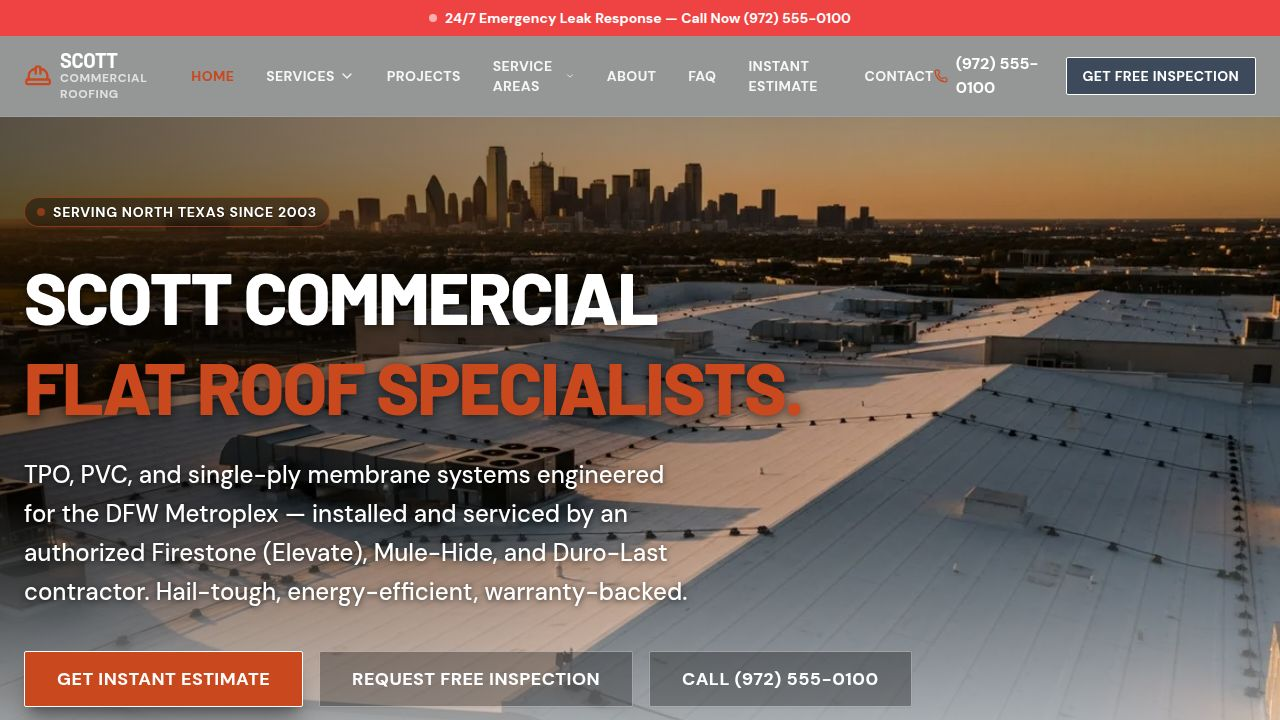
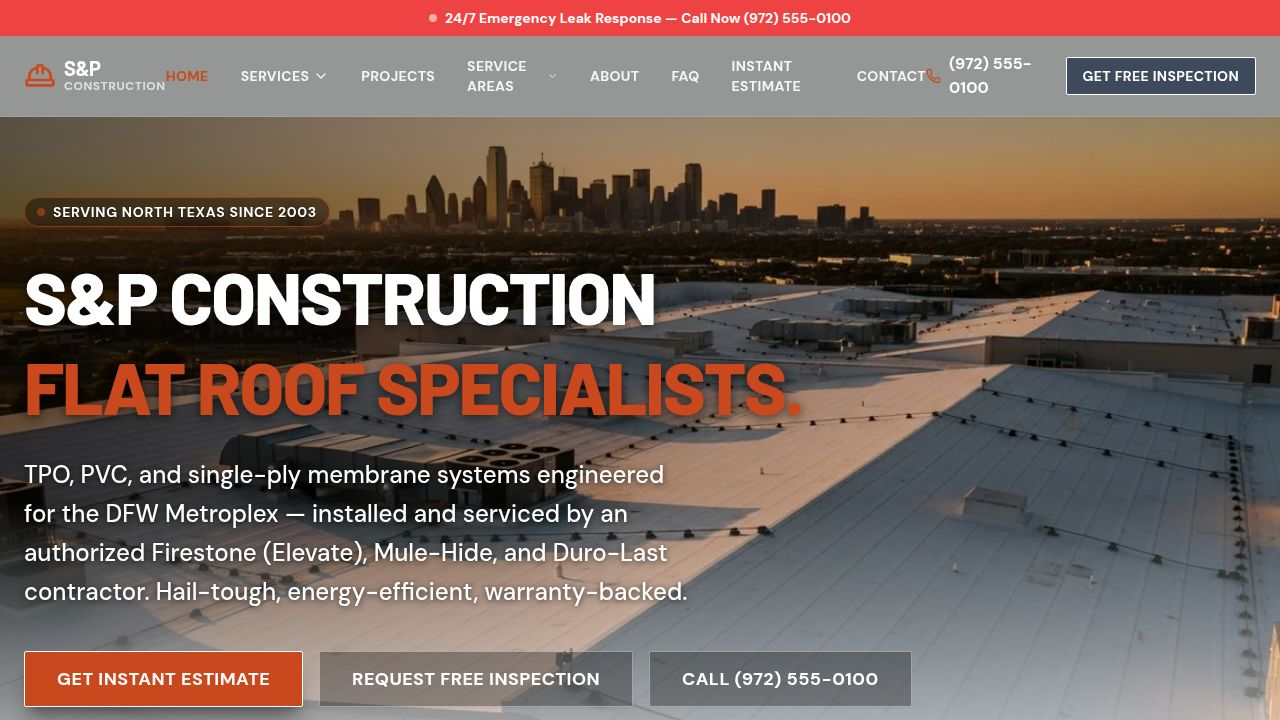
Wire up Paper Street contact form on /built-by so messages actually send
Task: Connect the static contact form on the /built-by page to a real email endpoint so submissions reach [email redacted].

## Changes

### New: API route `/api/built-by-contact`
- `artifacts/api-server/src/routes/builtByContact.ts` — POST endpoint that validates name/email/message (Zod), then sends a formatted HTML+text email via the existing Resend `sendEmail()` utility to `[email redacted]` (configurable via `PAPER_STREET_CONTACT_EMAIL` env var). Sets `replyTo` to the submitter's email for one-click replies. Returns `{ok:true}` on success or 400 with field error details on validation failure.
- `artifacts/api-server/src/routes/index.ts` — registered the new router

### Updated: BuiltBy.tsx form
- `artifacts/roofing-website/src/pages/BuiltBy.tsx` — converted the static uncontrolled form to a fully wired React form with:
  - Controlled inputs (name, email, message) with useState
  - Client-side validation with per-field error messages and red border highlight
  - Loading state ("Sending…" button while in-flight)
  - Success state: replaces form with a confirmation panel (checkmark, "Message Sent!", "Send Another Message" button)
  - Error state: inline error banner if the API call fails
  - noValidate on the form to defer to custom validation logic

## Verified
- `POST /api/built-by-contact` with valid data → `{"ok":true}` HTTP 200
- `POST /api/built-by-contact` with empty/invalid data → HTTP 400 with per-field error details
- Both workflows restarted and running
[…]

diff --git a/artifacts/roofing-website/src/pages/BuiltBy.tsx b/artifacts/roofing-website/src/pages/BuiltBy.tsx
@@ -1,3 +1,4 @@
+import { useState } from "react";
 import { SEO } from "@/components/SEO";
 import { ScrollRevealWrapper } from "@/components/ScrollRevealWrapper";
 import { Button } from "@/components/ui/button";
@@ -18,6 +19,8 @@ import {
   Wrench,
   Mail,
   ExternalLink,
+  CheckCircle,
+  AlertCircle,
 } from "lucide-react";
 
 const builtFeatures = [
@@ -106,7 +109,49 @@ const builtBySchema = [
   },
 ];
 
+type FormState = "idle" | "submitting" | "success" | "error";
+
 export default function BuiltBy() {
+  const [name, setName] = useState("");
+  const [email, setEmail] = useState("");
+  const [message, setMessage] = useState("");
+  const [formState, setFormState] = useState<FormState>("idle");
+  const [fieldErrors, setFieldErrors] = useState<Record<string, string>>({});
+
+  function validate() {
+    const errors: Record<string, string> = {};
+    if (!name.trim()) errors.name = "Name is required.";
+    if (!email.trim()) errors.email = "Email is required.";
+    else if (!/^[^\s@]+@[^\s@]+\.[^\s@]+$/.test(email)) errors.email = "Enter a valid email address.";
+    if (!message.trim()) errors.message = "Message is required.";
+    return errors;
+  }
+
+  async function handleSubmit(e: React.FormEvent) {
+    e.preventDefault();
+    const errors = validate();
+    if (Object.keys(errors).length > 0) {
+      setFieldErrors(errors);
+      return;
+    }
+    setFieldErrors({});
+    setFormState("submitting");
+    try {
+      const res = await fetch("/api/built-by-contact", {
+        method: "POST",
+        headers: { "Content-Type": "application/json" },
+        body: JSON.stringify({ name, email, message }),
+      });
+      if (!res.ok) throw new Error("Request failed");
+      setFormState("success");
+      setName("");
+      setEmail("");
+      setMessage("");
+    } catch {
+      setFormState("error");
+    }
+  }
+
   return (
     <>
       <SEO
@@ -245,56 +290,106 @@ export default function BuiltBy() {
                   </li>
                 </ul>
 
-                <form
-                  onSubmit={(e) => e.preventDefault()}
-                  className="space-y-4"
-                >
-                  <div>
-                    <label
-                      htmlFor="ps-name"
-                      className="block text-xs font-bold uppercase tracking-wide text-foreground mb-1.5"
+                {formState === "success" ? (
+                  <div className="flex flex-col items-center gap-4 py-8 text-center">
+                    <CheckCircle className="h-12 w-12 text-secondary" />
+                    <h4 className="text-lg font-heading font-bold uppercase tracking-tight text-foreground">
+                      Message Sent!
+                    </h4>
+                    <p className="text-sm text-muted-foreground">
+                      Thanks for reaching out. We'll be in touch shortly.
+                    </p>
+                    <Button
+                      variant="outline"
+                      className="mt-2"
+                      onClick={() => setFormState("idle")}
                     >
-                      Name
-                    </label>
-                    <input
-                      id="ps-name"
-                      type="text"
-                      placeholder="Your name"
-                      className="w-full rounded-md border border-input bg-background px-3 py-2 text-sm text-foreground placeholder:text-muted-foreground focus:outline-none focus:ring-2 focus:ring-secondary/50 transition"
-                    />
+                      Send Another Message
+                    </Button>
                   </div>
-                  <div>
-                    <label
-                      htmlFor="ps-email"
-                      className="block text-xs font-bold uppercase tracking-wide text-foreground mb-1.5"
+                ) : (
+                  <form onSubmit={handleSubmit} className="space-y-4" noValidate>
+                    {formState === "error" && (
+                      <div className="flex items-center gap-2 rounded-md bg-destructive/10 border border-destructive/20 px-3 py-2 text-sm text-destructive">
+                        <AlertCircle className="h-4 w-4 shrink-0" />
+                        <span>Something went wrong. Please try again.</span>
+                      </div>
+                    )}
+                    <div>
+                      <label
+                        htmlFor="ps-name"
+                        className="block text-xs font-bold uppercase tracking-wide text-foreground mb-1.5"
+                      >
+                        Name
+                      </label>
+                      <input
+                        id="ps-name"
+                        type="text"
+                        placeholder="Your name"
+                        value={name}
+                        onChange={(e) => {
+                          setName(e.target.value);
+                          if (fieldErrors.name) setFieldErrors((prev) => ({ ...prev, name: "" }));
+                        }}
+                        className={`w-full rounded-md border bg-background px-3 py-2 text-sm text-foreground placeholder:text-muted-foreground focus:outline-none focus:ring-2 focus:ring-secondary/50 transition ${fieldErrors.name ? "border-destructive" : "border-input"}`}
+                      />
+                      {fieldErrors.name && (
+                        <p className="mt-1 text-xs text-destructive">{fieldErrors.name}</p>
+                      )}
+                    </div>
+                    <div>
+                      <label
+                        htmlFor="ps-email"
+                        className="block text-xs font-bold uppercase tracking-wide text-foreground mb-1.5"
+                      >
+                        Email
+                      </label>
+                      <input
+                        id="ps-email"
+                        type="email"
+                        placeholder="[email redacted]"
+                        value={email}
+                        onChange={(e) => {
+                          setEmail(e.target.value);
+                          if (fieldErrors.email) setFieldErrors((prev) => ({ ...prev, email: "" }));
+                        }}
+                        className={`w-full rounded-md border bg-background px-3 py-2 text-sm text-foreground placeholder:text-muted-foreground focus:outline-none focus:ring-2 focus:ring-secondary/50 transition ${fieldErrors.email ? "border-destructive" : "border-input"}`}
+                      />
+                      {fieldErrors.email && (
+                        <p className="mt-1 text-xs text-destructive">{fieldErrors.email}</p>
+                      )}
+                    </div>
+                    <div>
+                      <label
+                        htmlFor="ps-message"
+                        className="block text-xs font-bold uppercase tracking-wide text-foreground mb-1.5"
+                      >
+                        Message
+                      </label>
+                      <textarea
+                        id="ps-message"
+                        rows={4}
+                        placeholder="Tell us about your project…"
+                        value={message}
+                        onChange={(e) => {
+                          setMessage(e.target.value);
+                          if (fieldErrors.message) setFieldErrors((prev) => ({ ...prev, message: "" }));
+                        }}
+                        className={`w-full rounded-md border bg-background px-3 py-2 text-sm text-foreground placeholder:text-muted-foreground focus:outline-none focus:ring-2 focus:ring-secondary/50 transition resize-none ${fieldErrors.message ? "border-destructive" : "border-input"}`}
+                      />
+                      {fieldErrors.message && (
+                        <p className="mt-1 text-xs text-destructive">{fieldErrors.message}</p>
+                      )}
+                    </div>
+                    <Button
+                      type="submit"
+                      disabled={formState === "submitting"}
+                      className="w-full font-bold uppercase tracking-wide"
                     >
-                      Email
-                    </label>
-                    <input
-                      id="ps-email"
-                      type="email"
-                      placeholder="[email redacted]"
-                      className="w-full rounded-md border border-input bg-background px-3 py-2 text-sm text-foreground placeholder:text-muted-foreground focus:outline-none focus:ring-2 focus:ring-secondary/50 transition"
-                    />
-                  </div>
-                  <div>
-                    <label
-                      htmlFor="ps-message"
-                      className="block text-xs font-bold uppercase tracking-wide text-foreground mb-1.5"
-                    >
-                      Message
-                    </label>
-                    <textarea
-                      id="ps-message"
-                      rows={4}
-                      placeholder="Tell us about your project…"
-                      className="w-full rounded-md border border-input bg-background px-3 py-2 text-sm text-foreground placeholder:text-muted-foreground focus:outline-none focus:ring-2 focus:ring-secondary/50 transition resize-none"
-                    />
-                  </div>
-                  <Button type="submit" className="w-full font-bold uppercase tracking-wide">
-                    Send Message
-                  </Button>
-                </form>
+                      {formState === "submitting" ? "Sending…" : "Send Message"}
+                    </Button>
+                  </form>
+                )}
               </div>
             </ScrollRevealWrapper>
           </div>

diff --git a/artifacts/api-server/src/routes/builtByContact.ts b/artifacts/api-server/src/routes/builtByContact.ts
@@ -1,0 +1,67 @@
+import { Router } from "express";
+import { z } from "zod";
+import { sendEmail } from "../lib/email";
+
+const router = Router();
+
+const builtByContactSchema = z.object({
+  name: z.string().min(1, "Name is required"),
+  email: z.string().email("Valid email is required"),
+  message: z.string().min(1, "Message is required"),
+});
+
+const PAPER_STREET_EMAIL =
+  process.env.PAPER_STREET_CONTACT_EMAIL ?? "[email redacted]";
+
+router.post("/built-by-contact", async (req, res): Promise<void> => {
+  const parsed = builtByContactSchema.safeParse(req.body);
+  if (!parsed.success) {
+    res.status(400).json({ error: "Invalid input", details: parsed.error.flatten().fieldErrors });
+    return;
+  }
+
+  const { name, email, message } = parsed.data;
+
+  req.log.info({ name, email }, "Paper Street contact form submission received");
+
+  await sendEmail({
+    to: PAPER_STREET_EMAIL,
+    subject: `New inquiry from ${name} via paperstreet.online`,
+    replyTo: email,
+    html: `
+      <div style="font-family:sans-serif;max-width:600px;margin:0 auto">
+        <h2 style="color:#1a1a1a">New Contact Inquiry — Paper Street Software Co.</h2>
+        <table style="width:100%;border-collapse:collapse;margin-bottom:24px">
+          <tr>
+            <td style="padding:8px 0;border-bottom:1px solid #eee;font-weight:bold;width:100px">Name</td>
+            <td style="padding:8px 0;border-bottom:1px solid #eee">${escapeHtml(name)}</td>
+          </tr>
+          <tr>
+            <td style="padding:8px 0;border-bottom:1px solid #eee;font-weight:bold">Email</td>
+            <td style="padding:8px 0;border-bottom:1px solid #eee">
+              <a href="mailto:${escapeHtml(email)}">${escapeHtml(email)}</a>
+            </td>
+          </tr>
+        </table>
+        <h3 style="color:#1a1a1a;margin-bottom:8px">Message</h3>
+        <p style="background:#f5f5f5;padding:16px;border-radius:6px;white-space:pre-wrap">${escapeHtml(message)}</p>
+        <hr style="border:none;border-top:1px solid #eee;margin:24px 0" />
+        <p style="color:#999;font-size:12px">Sent via the Paper Street Software Co. contact form on scottcommercialroofing.com</p>
+      </div>
+    `,
+    text: `New Contact Inquiry — Paper Street Software Co.\n\nName: ${name}\nEmail: ${email}\n\nMessage:\n${message}\n\n---\nSent via the Paper Street Software Co. contact form on scottcommercialroofing.com`,
+  });
+
+  res.status(200).json({ ok: true });
+});
+
+function escapeHtml(str: string): string {
+  return str
+    .replace(/&/g, "&amp;")
+    .replace(/</g, "&lt;")
+    .replace(/>/g, "&gt;")
+    .replace(/"/g, "&quot;")
+    .replace(/'/g, "&#39;");
+}
+
+export default router;

diff --git a/artifacts/api-server/src/routes/index.ts b/artifacts/api-server/src/routes/index.ts
@@ -5,6 +5,7 @@ import estimatorRouter from "./estimator";
 import sitemapRouter from "./sitemap";
 import projectsRouter from "./projects";
 import storageRouter from "./storage";
+import builtByContactRouter from "./builtByContact";
 
 const router: IRouter = Router();
 
@@ -14,5 +15,6 @@ router.use(estimatorRouter);
 router.use(sitemapRouter);
 router.use(projectsRouter);
 router.use(storageRouter);
+router.use(builtByContactRouter);
 
 export default router;